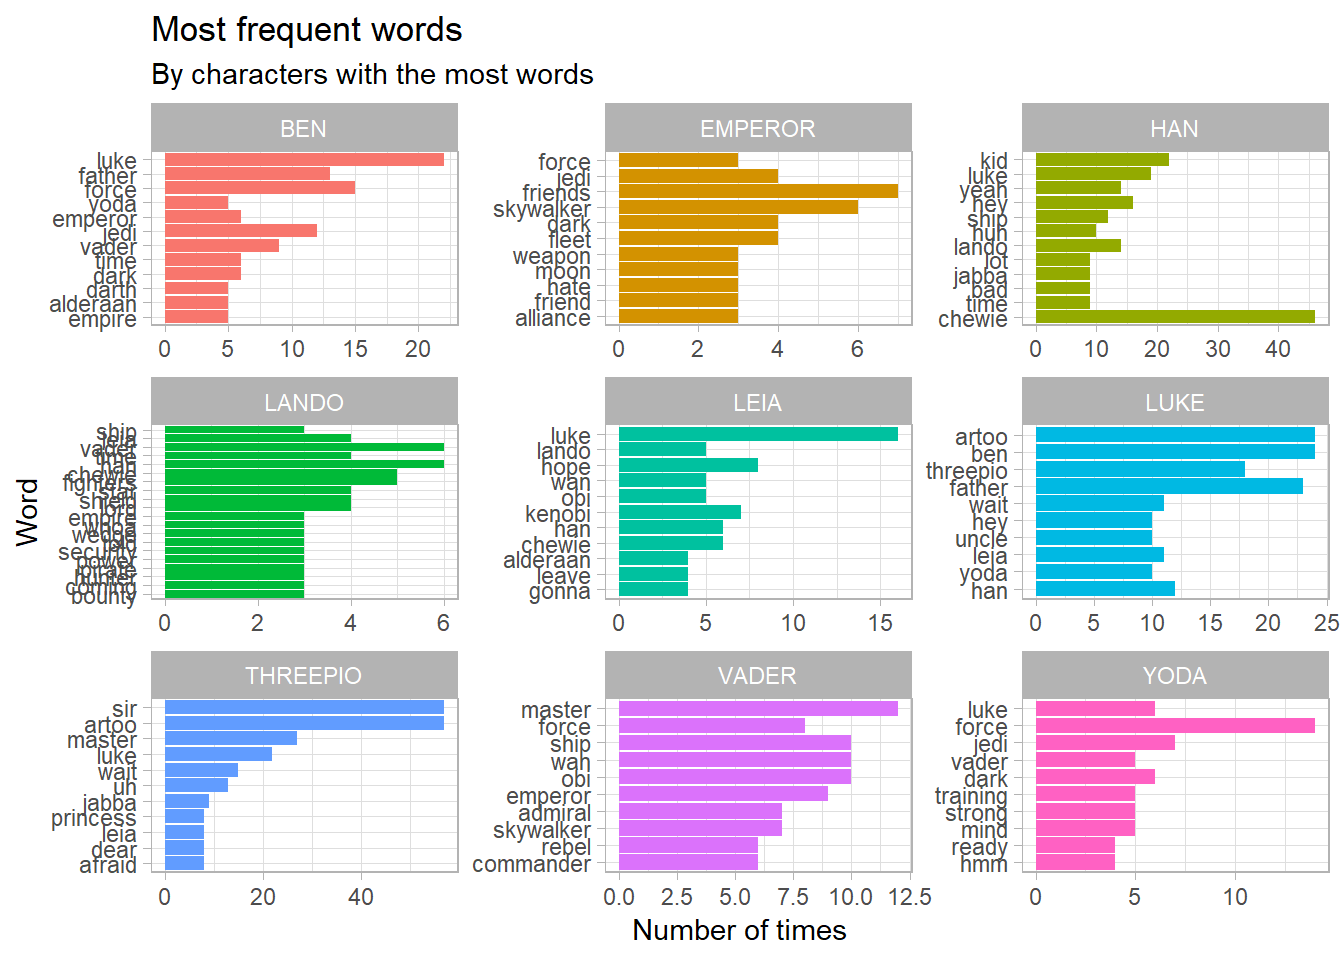
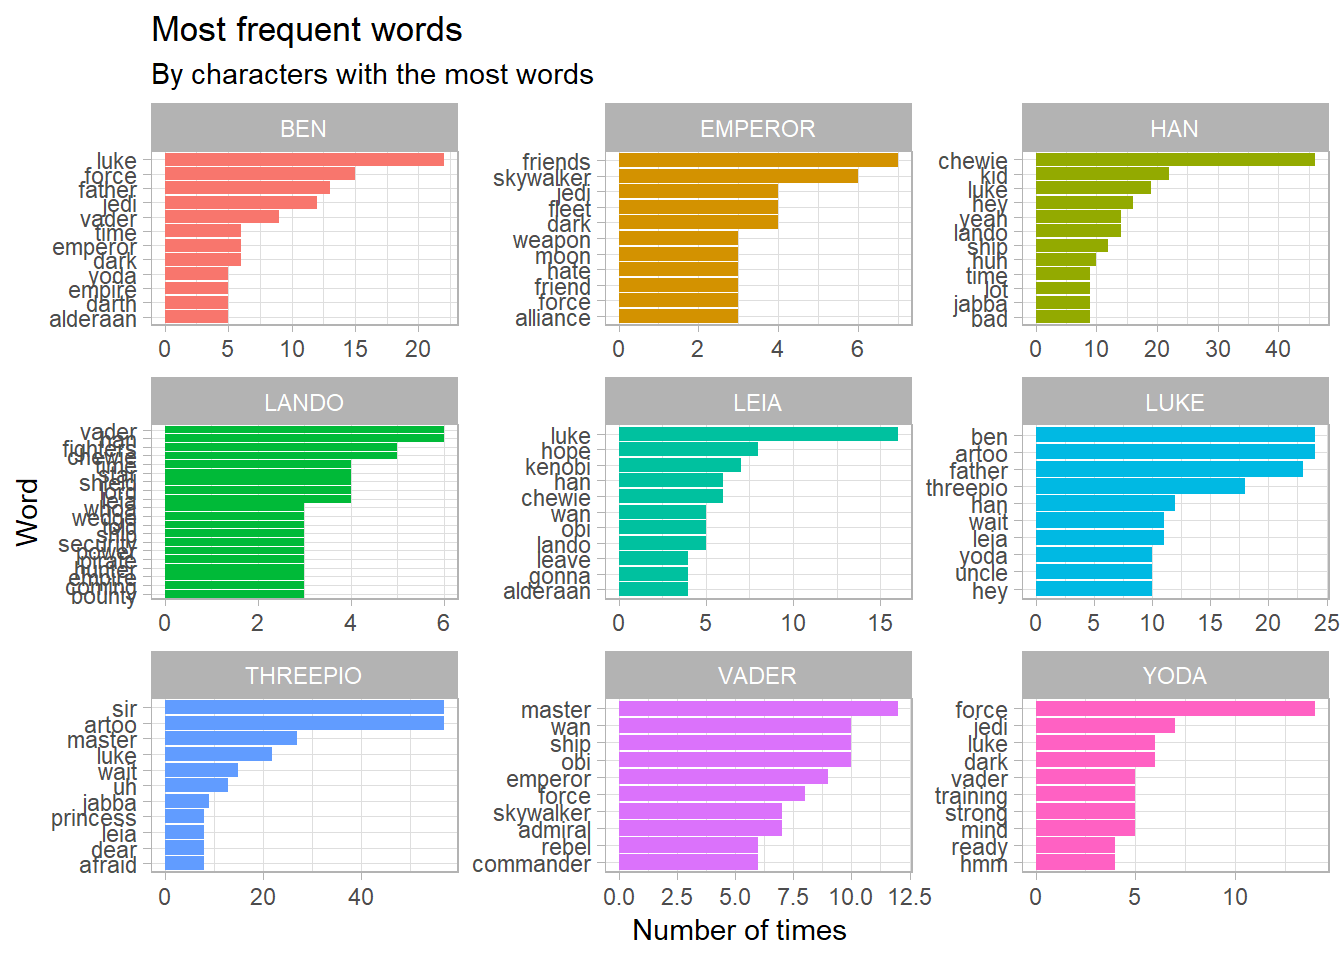
edit post

diff --git a/public/post/does-luke-turn-to-the-dark-side/index.html b/public/post/does-luke-turn-to-the-dark-side/index.html
@@ -143,12 +143,17 @@ head(words_per_char)
 
 <p>Now we have the words by character we can visualise the most common words, spoken by the most important characters. The <code>stop_words</code> dataframe, combined with dplyr&rsquo;s <code>anti_join</code> allows us to eliminate pesky stop words, such as &ldquo;the&rdquo; and &ldquo;it&rdquo;, so we can focus on words that can provide us with more insight.</p>
 
+<p><em>Within this section of code you will see a reference to the <code>drlib</code> package. This is because I want to reorder the <code>word</code> column dependent upon the character. If I was to plot this using an average reorder, any character would have &ldquo;Luke&rdquo; as the top of their chart, because he was the most spoken word, even if that character didn&rsquo;t say &ldquo;Luke&rdquo; much.</em></p>
+
 <pre><code class="language-r">## Identify the 9 characters who speak the most words
 top_9_chars &lt;- 
   words_per_char %&gt;% 
   count(character) %&gt;% 
   top_n(9) %&gt;% 
   select(character)
+
+## Install David Robinsons package to get the reordering within a facet.
+## devtools::install_github(&quot;dgrtwo/drlib&quot;)
 
 words_per_char %&gt;% 
   count(character, word) %&gt;% 
@@ -159,7 +164,8 @@ words_per_char %&gt;%
   group_by(character) %&gt;% 
   ## Get the 10 most frequent words spoken by character
   top_n(10) %&gt;% 
-  ggplot(aes(fct_reorder(word, n), n, fill = character)) + 
+  ggplot(aes(drlib::reorder_within(word, n, character), n, fill = character)) + 
+  drlib::scale_x_reordered() +
   geom_col() + 
   facet_wrap(~character, scales = &quot;free&quot;) + 
   coord_flip() + guides(fill = F) + 
@@ -252,7 +258,14 @@ ggplot() +
 
 <p>Create the first animated bar plot:</p>
 
-<pre><code class="language-r">x &lt;- 
+<pre><code class="language-r">minmax &lt;- 
+  word_sentiments %&gt;% 
+  filter(character == &quot;LUKE&quot;) %&gt;% 
+  group_by(film) %&gt;% 
+  summarise(min = min(wordcount),
+            max = max(wordcount))
+
+x &lt;- 
   word_sentiments %&gt;% 
   filter(character == &quot;LUKE&quot;) %&gt;% 
   ggplot() +
@@ -274,7 +287,7 @@ xgif &lt;- animate(x, duration = 36.75, fps = 20)
 xgif
 </code></pre>
 
-<p><img src="2019-03-19-does-luke-turn-to-the-dark-side_files/figure-html/unnamed-chunk-8-1.gif" alt="" /><!-- --></p>
+<p><img src="/img/luke.gif" alt="" /></p>
 
 <p>Then animate the words that get scored as below:</p>
 
@@ -288,7 +301,7 @@ ygif &lt;- animate(y, duration = 36.75, fps = 20)
 ygif
 </code></pre>
 
-<p><img src="2019-03-19-does-luke-turn-to-the-dark-side_files/figure-html/unnamed-chunk-9-1.gif" alt="" /><!-- --></p>
+<p><img src="/img/words.gif" alt="" /></p>
 
 <p>Then finally use the <code>magick</code> package to stitch each frame of both the gifs together. This was a painfully slow script to run (and I also cropped my words gif in an online editor), but it does get the result I wanted.</p>
 
